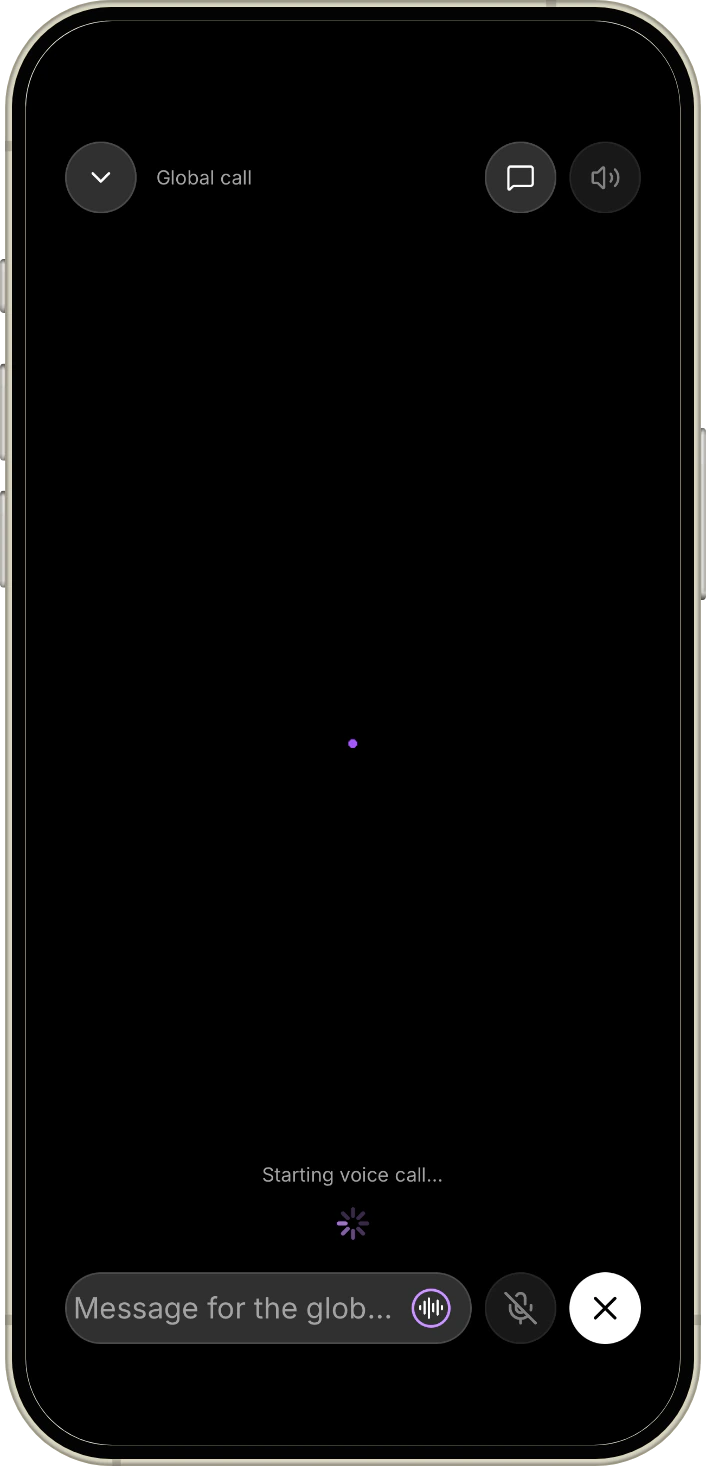
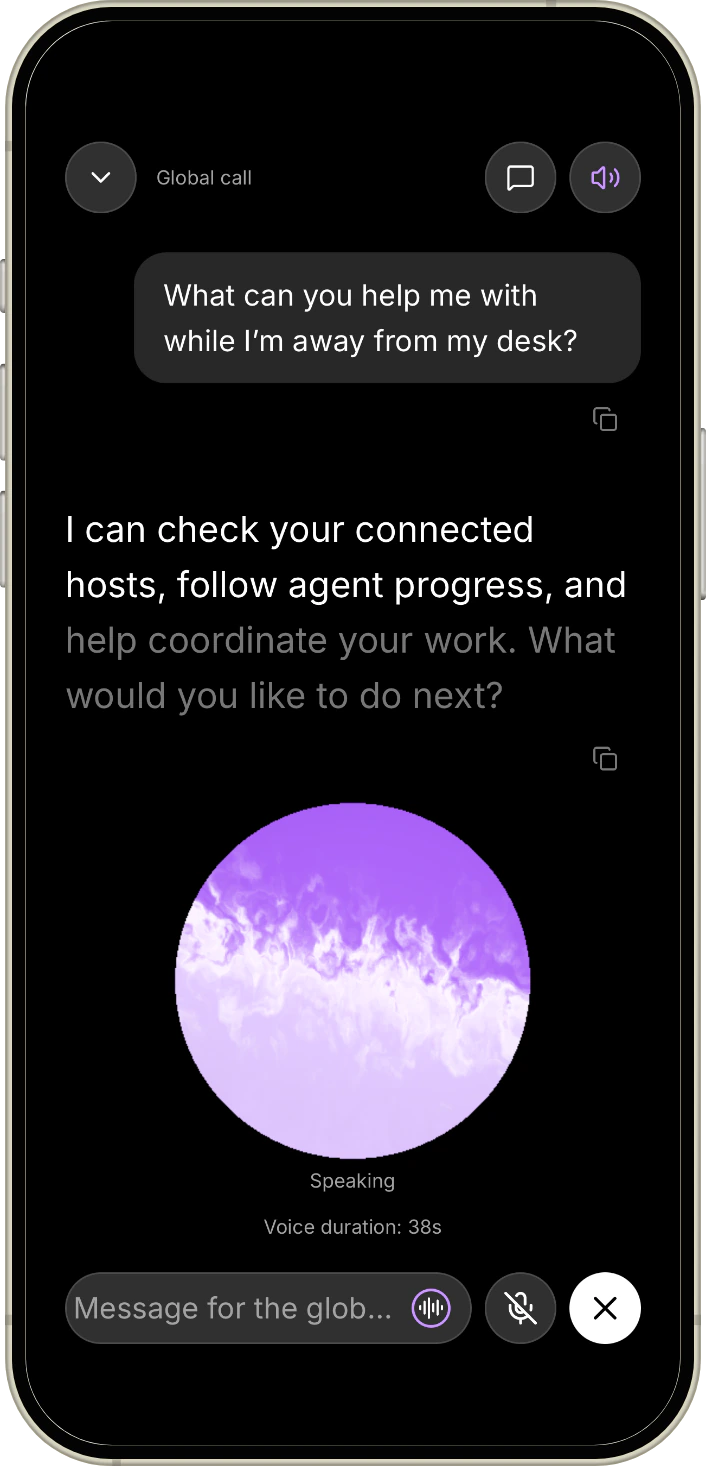
doc: show ongoing voice call in README preview

diff --git a/assets/screenshots/ios/README.md b/assets/screenshots/ios/README.md
@@ -20,9 +20,14 @@ controls. The terminal preview shows real coding-agent output and the mobile
 input controls. The Markdown preview opens the repository's root `README.md`
 at its “Use Chat View” section.
 
-`voice-call.webp` shows the global voice-call connecting screen with its message,
-microphone, speaker, and hang-up controls. `mini` had no microphone input, so
-CallKit could not activate audio for an active-call capture. The supplied API
+`voice-call.webp` was refreshed on November 7, 2026. It shows the production
+global call UI with a mock ongoing conversation: a sample question and reply,
+the speaking orb, elapsed call time, and enabled microphone and speaker controls.
+CallKit could not activate a real call on `mini`, even with a temporary loopback
+microphone input. A capture-only JavaScript entry point supplied the mock session
+state without starting audio, submitting agent work, or saving mock usage
+history. The original simulator app was restored
+after capture, and the temporary audio driver was removed. The supplied API
 credential remains saved in the simulator's native credential store.
 
 The browser preview shows this README served locally on `mini` at
@@ -30,13 +35,15 @@ The browser preview shows this README served locally on `mini` at
 
 ## Source captures
 
-All eleven gallery images use direct, unframed 1206×2622 PNG screenshots.
-The ten original views use `xcrun simctl io … screenshot`; the voice-call image
-uses `XCUIScreen.main.screenshot()` during call startup, selecting
-`voice-call-7.png` from the retained sequence. The originals are retained outside version
-control in `build/readme-2.0/screenshots/` under the persistent
+All eleven gallery images use direct, unframed 1206×2622 PNG screenshots from
+`xcrun simctl io … screenshot`; the voice-call image captures the mock
+conversation after its transcript and orb finish rendering. The originals are
+retained outside version control in `build/readme-2.0/screenshots/` under the persistent
 `/Users/kosumi/repos/whip-ios-device` worktree on `mini`, and mirrored locally
 in `.codex-readme-raw/2.0.0/`. Each PNG has the same base name as its WebP.
+The voice fixture entry point is retained as `.codex-readme-ongoing-voice.js` in
+that worktree. Its bundle and the original app backup are in
+`build/readme-2.0/mock-call/` and `build/readme-2.0/ongoing-call-original.app`.
 
 Regenerate the current gallery from those PNGs:
 

diff --git a/README.md b/README.md
@@ -110,10 +110,10 @@ We will not add first-class support for **tmux, Zellij, or Mosh**. This focus le
     <td align="center"><strong>Chat naturally</strong><br>Write or dictate a prompt, attach a file, and send it to your agent.</td>
   </tr>
   <tr>
-    <td colspan="2" align="center"><img src="assets/screenshots/ios/voice-call.webp" alt="Whip global voice-call connecting screen with message, microphone, speaker, and hang-up controls" width="320"></td>
+    <td colspan="2" align="center"><img src="assets/screenshots/ios/voice-call.webp" alt="Whip global voice-call UI with a mock ongoing conversation, transcript, active voice orb, microphone, speaker, and hang-up controls" width="320"></td>
   </tr>
   <tr>
-    <td colspan="2" align="center"><strong>Start a voice call</strong><br>Check host and agent status and coordinate your work by voice.</td>
+    <td colspan="2" align="center"><strong>Coordinate by voice</strong><br>Check host and agent status and coordinate your work by voice.</td>
   </tr>
   <tr>
     <td align="center"><img src="assets/screenshots/ios/reverse-control.webp" alt="Whip's per-agent actions with session details and the Phone Use access switch" width="320"></td>
